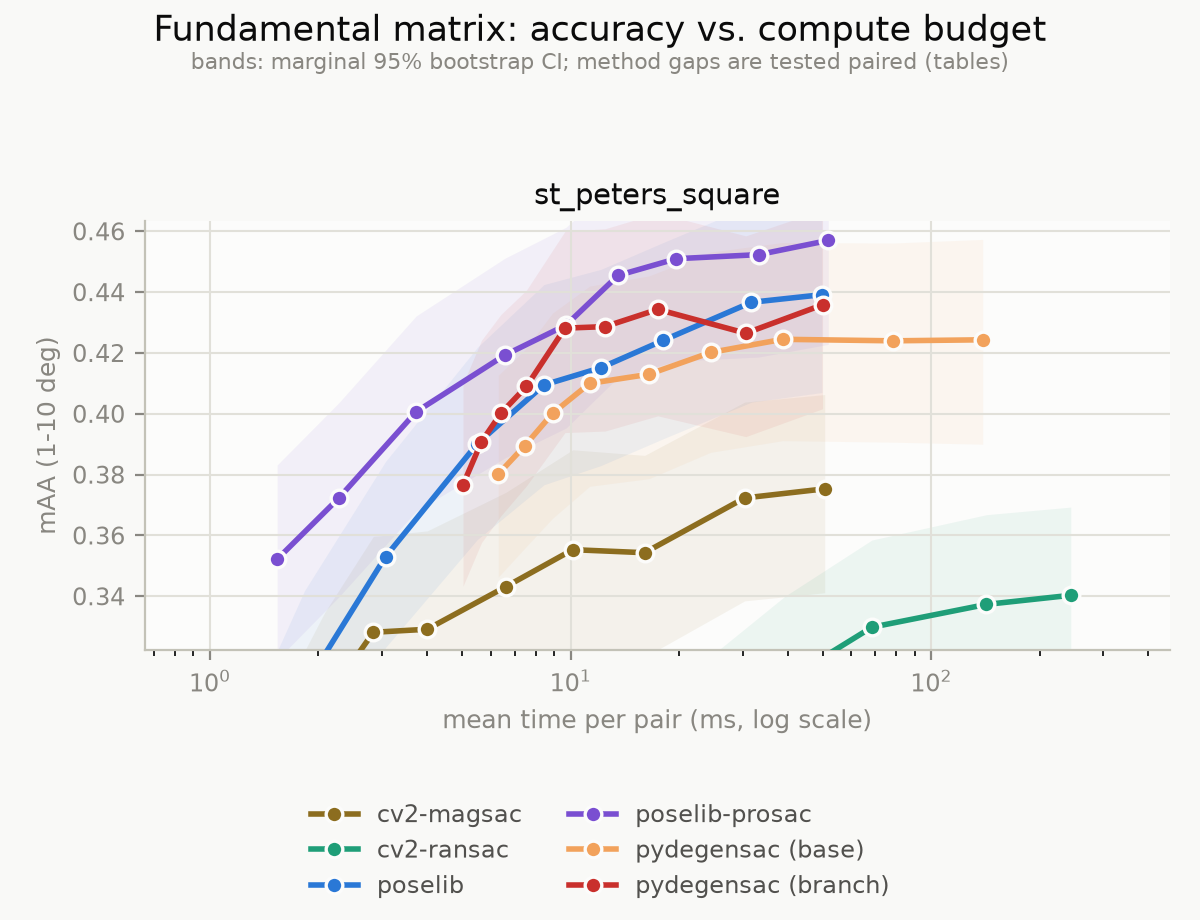
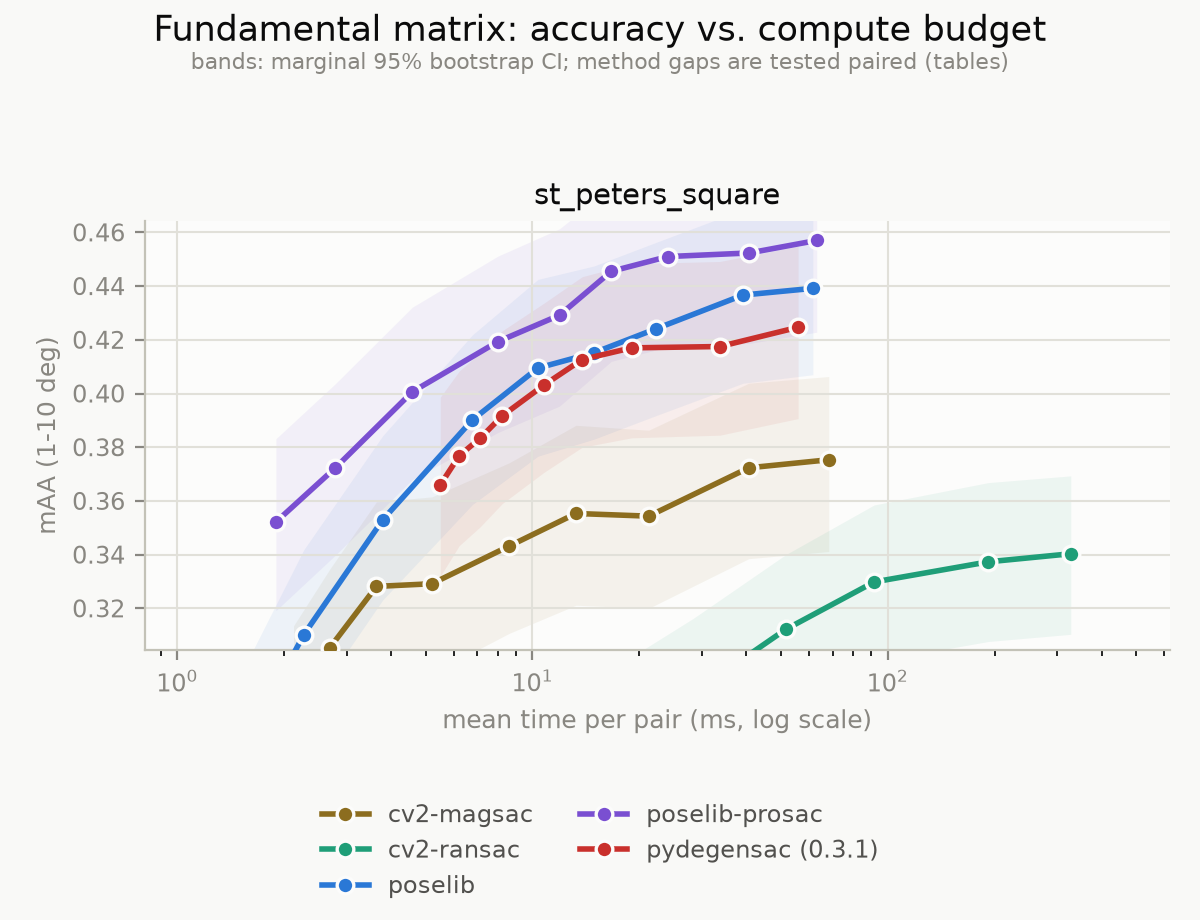
add M1 benchmarks for 0.3.1 with fixed seed

diff --git a/benchmarks/results/report_h_m1.md b/benchmarks/results/report_h_m1.md
@@ -1,59 +1,112 @@
 # Homography time-mAA
 
-- `branch:m1-opt@15445ef` — h_m1_opt.jsonl, pydegensac 0.3.0, cv2 4.13.0, poselib 2.0.5, repo aa111c8, host Dmytros-MacBook-Air.local
+- `0.3.1:1d05d10` — h_current_m1.jsonl, pydegensac 0.3.1, cv2 5.0.0, poselib 2.0.5, repo 1d05d10, host Dmytros-MacBook-Air.local
+  - pydegensac seed: `12345` (reset per call)
   - config: `{"EVD": {"cv2-ransac": {"px_th": 1.0, "ratio_th": null, "source": "run.py tune h (val)"}, "cv2-magsac": {"px_th": 4.0, "ratio_th": null, "source": "run.py tune h (val)"}, "poselib": {"px_th": 8.0, "ratio_th": null, "source": "run.py tune h (val)"}, "poselib-prosac": {"px_th": 4.0, "ratio_th": null, "source": "run.py tune h (val), after score-orientation fix"}, "pydegensac": {"px_th": 1.0, "ratio_th": null, "source": "run.py tune h (val)"}}, "HPatchesSeq": {"cv2-ransac": {"px_th": 16.0, "ratio_th": null, "source": "run.py tune h (val)"}, "cv2-magsac": {"px_th": 64.0, "ratio_th": null, "source": "run.py tune h (val)"}, "poselib": {"px_th": 16.0, "ratio_th": null, "source": "run.py tune h (val)"}, "poselib-prosac": {"px_th": 16.0, "ratio_th": null, "source": "run.py tune h (val), after score-orientation fix"}, "pydegensac": {"px_th": 4.0, "ratio_th": null, "source": "run.py tune h (val)"}}}`
-- `base:m1-master+lapackfix` — h_m1_basefix2.jsonl, pydegensac 0.3.0, cv2 4.13.0, poselib 2.0.5, repo aa111c8, host Dmytros-MacBook-Air.local
-  - config: `{"EVD": {"pydegensac": {"px_th": 1.0, "ratio_th": null, "source": "run.py tune h (val)"}}, "HPatchesSeq": {"pydegensac": {"px_th": 4.0, "ratio_th": null, "source": "run.py tune h (val)"}}}`
 
 ### EVD — best per method
 
 | method | best mAA | 95% CI | at budget | mean ms/pair | d mAA vs poselib-prosac (paired) |
 |---|---|---|---|---|---|
-| poselib-prosac | 0.4500 | 0.2000-0.6875 | 100 | 0.84 | leader |
-| poselib | 0.4375 | 0.1875-0.6875 | 25000 | 2.95 | -0.0126 (-0.0375, +0.0000) |
-| cv2-magsac | 0.4125 | 0.1750-0.6500 | 6400 | 1.05 | -0.0379 (-0.0750, -0.0125) * |
-| pydegensac (branch) | 0.4125 | 0.1750-0.6000 | 25000 | 7.79 | -0.0374 (-0.1125, +0.0375) |
-| pydegensac (base) | 0.4000 | 0.1750-0.6375 | 25000 | 31.35 | -0.0500 (-0.0875, -0.0125) * |
-| cv2-ransac | 0.3375 | 0.0994-0.6125 | 1600 | 18.76 | -0.1131 (-0.2500, +0.0000) |
+| poselib-prosac | 0.4500 | 0.2000-0.6875 | 100 | 1.02 | leader |
+| poselib | 0.4375 | 0.1875-0.6875 | 25000 | 3.48 | -0.0126 (-0.0375, +0.0000) |
+| cv2-magsac | 0.4125 | 0.1750-0.6500 | 6400 | 1.25 | -0.0379 (-0.0750, -0.0125) * |
+| pydegensac (0.3.1) | 0.4000 | 0.1875-0.6250 | 25000 | 7.39 | -0.0506 (-0.1750, +0.0625) |
+| cv2-ransac | 0.3375 | 0.0994-0.6125 | 1600 | 21.45 | -0.1131 (-0.2500, +0.0000) |
 
 `*` = paired CI excludes zero. Each method is taken at its own best budget, which flatters every method equally.
 
-#### pydegensac: base vs branch, same budget
 
-| budget | mAA base | mAA branch | d mAA (95% CI, paired) | ms base | ms branch | speedup |
+### EVD
+
+| method | budget | mAA | 95% CI | mean ms/pair | median ms/pair | failures |
 |---|---|---|---|---|---|---|
-| 10 | 0.1000 | 0.0750 | -0.0253 (-0.0750, +0.0000) | 0.35 | 0.25 | 1.39x |
-| 25 | 0.2125 | 0.1000 | -0.1135 (-0.2875, +0.0000) | 0.34 | 0.28 | 1.21x |
-| 100 | 0.2875 | 0.2125 | -0.0756 (-0.2125, +0.0250) | 0.95 | 0.52 | 1.84x |
-| 400 | 0.2875 | 0.2875 | -0.0004 (-0.0750, +0.0750) | 1.78 | 0.92 | 1.93x |
-| 1600 | 0.2875 | 0.2625 | -0.0257 (-0.0875, +0.0500) | 4.01 | 1.58 | 2.53x |
-| 6400 | 0.3625 | 0.3375 | -0.0253 (-0.0875, +0.0250) | 10.15 | 3.39 | 2.99x |
-| 25000 | 0.4000 | 0.4125 | +0.0126 (-0.0750, +0.1000) | 31.35 | 7.79 | 4.02x |
-| **all** | | | | 48.91 | 14.74 | **3.32x** |
+| cv2-magsac | 10 | 0.1625 | 0.0000-0.3625 | 0.19 | 0.17 | 0/8 |
+| cv2-magsac | 25 | 0.2750 | 0.0625-0.5375 | 0.25 | 0.24 | 0/8 |
+| cv2-magsac | 100 | 0.3750 | 0.1125-0.6375 | 0.30 | 0.26 | 0/8 |
+| cv2-magsac | 400 | 0.3625 | 0.1125-0.6125 | 0.39 | 0.34 | 0/8 |
+| cv2-magsac | 1600 | 0.3625 | 0.1125-0.6125 | 0.59 | 0.59 | 0/8 |
+| cv2-magsac | 6400 | 0.4125 | 0.1750-0.6500 | 1.25 | 1.45 | 0/8 |
+| cv2-magsac | 25000 | 0.3750 | 0.1375-0.6250 | 2.73 | 2.71 | 0/8 |
+| cv2-ransac | 10 | 0.0625 | 0.0000-0.1625 | 0.35 | 0.32 | 0/8 |
+| cv2-ransac | 25 | 0.1125 | 0.0000-0.2503 | 0.55 | 0.56 | 0/8 |
+| cv2-ransac | 100 | 0.1625 | 0.0125-0.3500 | 1.62 | 1.63 | 0/8 |
+| cv2-ransac | 400 | 0.2500 | 0.0375-0.4875 | 5.64 | 5.53 | 0/8 |
+| cv2-ransac | 1600 | 0.3375 | 0.0994-0.6125 | 21.45 | 21.44 | 0/8 |
+| cv2-ransac | 6400 | 0.3375 | 0.0994-0.6125 | 74.72 | 84.98 | 1/8 |
+| cv2-ransac | 25000 | 0.3250 | 0.0750-0.6000 | 261.29 | 328.51 | 1/8 |
+| poselib | 10 | 0.1125 | 0.0000-0.3375 | 0.16 | 0.10 | 1/8 |
+| poselib | 25 | 0.2000 | 0.0250-0.4250 | 0.32 | 0.20 | 0/8 |
+| poselib | 100 | 0.4125 | 0.1625-0.6750 | 0.61 | 0.59 | 0/8 |
+| poselib | 400 | 0.4125 | 0.1625-0.6750 | 0.75 | 0.75 | 0/8 |
+| poselib | 1600 | 0.4125 | 0.1625-0.6750 | 1.12 | 1.28 | 0/8 |
+| poselib | 6400 | 0.4000 | 0.1625-0.6500 | 1.76 | 1.99 | 0/8 |
+| poselib | 25000 | 0.4375 | 0.1875-0.6875 | 3.48 | 3.50 | 0/8 |
+| poselib-prosac | 10 | 0.3750 | 0.1125-0.6375 | 0.66 | 0.66 | 1/8 |
+| poselib-prosac | 25 | 0.3875 | 0.1125-0.6500 | 0.88 | 0.93 | 0/8 |
+| poselib-prosac | 100 | 0.4500 | 0.2000-0.6875 | 1.02 | 1.02 | 0/8 |
+| poselib-prosac | 400 | 0.4500 | 0.2000-0.6875 | 1.27 | 1.30 | 0/8 |
+| poselib-prosac | 1600 | 0.4500 | 0.2000-0.6875 | 1.71 | 1.75 | 0/8 |
+| poselib-prosac | 6400 | 0.4500 | 0.2000-0.6875 | 2.61 | 2.80 | 0/8 |
+| poselib-prosac | 25000 | 0.4500 | 0.2000-0.6875 | 5.44 | 5.59 | 0/8 |
+| pydegensac (0.3.1) | 10 | 0.2125 | 0.0000-0.5125 | 0.43 | 0.47 | 4/8 |
+| pydegensac (0.3.1) | 25 | 0.2625 | 0.0625-0.5000 | 0.42 | 0.26 | 2/8 |
+| pydegensac (0.3.1) | 100 | 0.2750 | 0.0750-0.5253 | 0.58 | 0.47 | 0/8 |
+| pydegensac (0.3.1) | 400 | 0.2500 | 0.0500-0.5000 | 1.16 | 0.66 | 0/8 |
+| pydegensac (0.3.1) | 1600 | 0.3250 | 0.1000-0.5625 | 1.63 | 1.14 | 0/8 |
+| pydegensac (0.3.1) | 6400 | 0.3875 | 0.1747-0.6128 | 3.21 | 2.64 | 0/8 |
+| pydegensac (0.3.1) | 25000 | 0.4000 | 0.1875-0.6250 | 7.39 | 7.61 | 0/8 |
 
 ### HPatchesSeq — best per method
 
 | method | best mAA | 95% CI | at budget | mean ms/pair | d mAA vs poselib-prosac (paired) |
 |---|---|---|---|---|---|
-| poselib-prosac | 0.9297 | 0.8903-0.9628 | 1600 | 7.97 | leader |
-| cv2-magsac | 0.9269 | 0.8896-0.9586 | 25000 | 0.96 | -0.0027 (-0.0124, +0.0076) |
-| poselib | 0.9262 | 0.8876-0.9593 | 25000 | 5.22 | -0.0034 (-0.0214, +0.0097) |
-| pydegensac (branch) | 0.9200 | 0.8814-0.9538 | 25000 | 2.56 | -0.0095 (-0.0152, -0.0041) * |
-| cv2-ransac | 0.9103 | 0.8710-0.9448 | 25000 | 28.24 | -0.0192 (-0.0297, -0.0090) * |
-| pydegensac (base) | 0.9041 | 0.8621-0.9393 | 1600 | 4.39 | -0.0253 (-0.0434, -0.0117) * |
+| poselib-prosac | 0.9297 | 0.8903-0.9628 | 1600 | 9.41 | leader |
+| cv2-magsac | 0.9269 | 0.8896-0.9586 | 25000 | 1.21 | -0.0027 (-0.0124, +0.0076) |
+| poselib | 0.9262 | 0.8876-0.9593 | 25000 | 6.52 | -0.0034 (-0.0214, +0.0097) |
+| cv2-ransac | 0.9103 | 0.8710-0.9448 | 25000 | 33.94 | -0.0192 (-0.0297, -0.0090) * |
+| pydegensac (0.3.1) | 0.9048 | 0.8641-0.9407 | 6400 | 2.08 | -0.0247 (-0.0421, -0.0117) * |
 
 `*` = paired CI excludes zero. Each method is taken at its own best budget, which flatters every method equally.
 
-#### pydegensac: base vs branch, same budget
 
-| budget | mAA base | mAA branch | d mAA (95% CI, paired) | ms base | ms branch | speedup |
+### HPatchesSeq
+
+| method | budget | mAA | 95% CI | mean ms/pair | median ms/pair | failures |
 |---|---|---|---|---|---|---|
-| 10 | 0.7048 | 0.7228 | +0.0179 (-0.0524, +0.0848) | 2.79 | 0.98 | 2.85x |
-| 25 | 0.7641 | 0.7938 | +0.0304 (-0.0159, +0.0779) | 2.94 | 1.08 | 2.73x |
-| 100 | 0.8531 | 0.8366 | -0.0167 (-0.0579, +0.0235) | 3.32 | 1.21 | 2.74x |
-| 400 | 0.8862 | 0.8945 | +0.0079 (-0.0110, +0.0269) | 3.78 | 1.43 | 2.63x |
-| 1600 | 0.9041 | 0.9069 | +0.0025 (-0.0145, +0.0172) | 4.39 | 1.57 | 2.79x |
-| 6400 | 0.9028 | 0.9131 | +0.0103 (+0.0007, +0.0214) * | 5.69 | 1.94 | 2.93x |
-| 25000 | 0.9028 | 0.9200 | +0.0171 (+0.0028, +0.0359) * | 8.43 | 2.56 | 3.30x |
-| **all** | | | | 31.33 | 10.78 | **2.91x** |
+| cv2-magsac | 10 | 0.7207 | 0.6448-0.7910 | 0.70 | 0.69 | 13/145 |
+| cv2-magsac | 25 | 0.8048 | 0.7379-0.8642 | 0.76 | 0.76 | 4/145 |
+| cv2-magsac | 100 | 0.8572 | 0.7993-0.9090 | 0.84 | 0.81 | 0/145 |
+| cv2-magsac | 400 | 0.8834 | 0.8297-0.9290 | 0.92 | 0.83 | 0/145 |
+| cv2-magsac | 1600 | 0.9117 | 0.8683-0.9504 | 0.93 | 0.83 | 0/145 |
+| cv2-magsac | 6400 | 0.9200 | 0.8800-0.9531 | 1.01 | 0.89 | 0/145 |
+| cv2-magsac | 25000 | 0.9269 | 0.8896-0.9586 | 1.21 | 0.91 | 0/145 |
+| cv2-ransac | 10 | 0.7338 | 0.6621-0.8014 | 1.06 | 1.04 | 0/145 |
+| cv2-ransac | 25 | 0.7890 | 0.7227-0.8497 | 1.28 | 1.21 | 0/145 |
+| cv2-ransac | 100 | 0.8503 | 0.7931-0.9028 | 1.69 | 1.65 | 0/145 |
+| cv2-ransac | 400 | 0.8834 | 0.8338-0.9255 | 2.89 | 1.80 | 0/145 |
+| cv2-ransac | 1600 | 0.8897 | 0.8427-0.9304 | 5.74 | 1.80 | 0/145 |
+| cv2-ransac | 6400 | 0.9069 | 0.8669-0.9421 | 14.64 | 1.86 | 0/145 |
+| cv2-ransac | 25000 | 0.9103 | 0.8710-0.9448 | 33.94 | 1.88 | 0/145 |
+| poselib | 10 | 0.7366 | 0.6607-0.8069 | 1.17 | 1.07 | 3/145 |
+| poselib | 25 | 0.7952 | 0.7262-0.8538 | 1.48 | 1.21 | 0/145 |
+| poselib | 100 | 0.8407 | 0.7800-0.8959 | 2.13 | 1.80 | 0/145 |
+| poselib | 400 | 0.8959 | 0.8462-0.9379 | 3.45 | 3.09 | 0/145 |
+| poselib | 1600 | 0.9159 | 0.8738-0.9538 | 5.60 | 4.87 | 0/145 |
+| poselib | 6400 | 0.9221 | 0.8821-0.9579 | 5.83 | 4.98 | 0/145 |
+| poselib | 25000 | 0.9262 | 0.8876-0.9593 | 6.52 | 5.71 | 0/145 |
+| poselib-prosac | 10 | 0.8966 | 0.8469-0.9407 | 1.76 | 1.63 | 4/145 |
+| poselib-prosac | 25 | 0.9034 | 0.8566-0.9462 | 2.15 | 1.99 | 0/145 |
+| poselib-prosac | 100 | 0.9166 | 0.8738-0.9545 | 3.30 | 3.19 | 0/145 |
+| poselib-prosac | 400 | 0.9228 | 0.8807-0.9586 | 5.74 | 5.66 | 0/145 |
+| poselib-prosac | 1600 | 0.9297 | 0.8903-0.9628 | 9.41 | 9.57 | 0/145 |
+| poselib-prosac | 6400 | 0.9297 | 0.8903-0.9628 | 9.72 | 9.47 | 0/145 |
+| poselib-prosac | 25000 | 0.9297 | 0.8903-0.9628 | 10.40 | 9.85 | 0/145 |
+| pydegensac (0.3.1) | 10 | 0.7152 | 0.6421-0.7814 | 1.29 | 1.20 | 20/145 |
+| pydegensac (0.3.1) | 25 | 0.7869 | 0.7221-0.8483 | 1.17 | 1.20 | 3/145 |
+| pydegensac (0.3.1) | 100 | 0.8359 | 0.7793-0.8897 | 1.32 | 1.41 | 0/145 |
+| pydegensac (0.3.1) | 400 | 0.8579 | 0.8062-0.9048 | 1.49 | 1.49 | 0/145 |
+| pydegensac (0.3.1) | 1600 | 0.8993 | 0.8572-0.9372 | 1.70 | 1.61 | 0/145 |
+| pydegensac (0.3.1) | 6400 | 0.9048 | 0.8641-0.9407 | 2.08 | 1.64 | 0/145 |
+| pydegensac (0.3.1) | 25000 | 0.9048 | 0.8641-0.9407 | 2.58 | 1.69 | 0/145 |
 wrote results/time_maa_h_m1.png

diff --git a/benchmarks/results/report_f_m1.md b/benchmarks/results/report_f_m1.md
@@ -1,35 +1,69 @@
 # Fundamental time-mAA
 
-- `branch:m1-opt@15445ef` — f_m1_opt.jsonl, pydegensac 0.3.0, cv2 4.13.0, poselib 2.0.5, repo 15445ef, host Dmytros-MacBook-Air.local
+- `0.3.1:1d05d10` — f_current_m1.jsonl, pydegensac 0.3.1, cv2 5.0.0, poselib 2.0.5, repo 1d05d10, host Dmytros-MacBook-Air.local
+  - pydegensac seed: `12345` (reset per call)
   - config: `{"st_peters_square": {"cv2-ransac": {"px_th": 0.5, "ratio_th": 0.85, "source": "run.py tune f (300-pair tuning subset)"}, "cv2-magsac": {"px_th": 0.25, "ratio_th": 0.85, "source": "run.py tune f (300-pair tuning subset)"}, "poselib": {"px_th": 0.5, "ratio_th": 0.85, "source": "run.py tune f (300-pair tuning subset)"}, "poselib-prosac": {"px_th": 0.5, "ratio_th": 0.85, "source": "run.py tune f; ratio 0.85 not 0.90 (tie-break, see below)"}, "pydegensac": {"px_th": 0.5, "ratio_th": 0.8, "source": "run.py tune f (300-pair tuning subset)"}}}`
-- `base:m1-master+lapackfix` — f_m1_basefix2.jsonl, pydegensac 0.3.0, cv2 4.13.0, poselib 2.0.5, repo aa111c8, host Dmytros-MacBook-Air.local
-  - config: `{"st_peters_square": {"pydegensac": {"px_th": 0.5, "ratio_th": 0.8, "source": "run.py tune f (300-pair tuning subset)"}}}`
 
 ### st_peters_square — best per method
 
 | method | best mAA | 95% CI | at budget | mean ms/pair | d mAA vs poselib-prosac (paired) |
 |---|---|---|---|---|---|
-| poselib-prosac | 0.4570 | 0.4228-0.4873 | 50000 | 51.81 | leader |
-| poselib | 0.4392 | 0.4070-0.4698 | 50000 | 49.75 | -0.0178 (-0.0413, +0.0060) |
-| pydegensac (branch) | 0.4358 | 0.4017-0.4670 | 50000 | 49.96 | -0.0211 (-0.0442, +0.0018) |
-| pydegensac (base) | 0.4245 | 0.3912-0.4563 | 10000 | 38.75 | -0.0325 (-0.0548, -0.0093) * |
-| cv2-magsac | 0.3753 | 0.3412-0.4063 | 50000 | 50.65 | -0.0820 (-0.1098, -0.0562) * |
-| cv2-ransac | 0.3403 | 0.3103-0.3693 | 50000 | 243.66 | -0.1165 (-0.1425, -0.0898) * |
+| poselib-prosac | 0.4570 | 0.4228-0.4873 | 50000 | 63.13 | leader |
+| poselib | 0.4392 | 0.4070-0.4698 | 50000 | 61.58 | -0.0178 (-0.0413, +0.0060) |
+| pydegensac (0.3.1) | 0.4247 | 0.3907-0.4548 | 50000 | 55.96 | -0.0325 (-0.0547, -0.0095) * |
+| cv2-magsac | 0.3753 | 0.3412-0.4063 | 50000 | 68.26 | -0.0820 (-0.1098, -0.0562) * |
+| cv2-ransac | 0.3403 | 0.3103-0.3693 | 50000 | 327.66 | -0.1165 (-0.1425, -0.0898) * |
 
 `*` = paired CI excludes zero. Each method is taken at its own best budget, which flatters every method equally.
 
-#### pydegensac: base vs branch, same budget
 
-| budget | mAA base | mAA branch | d mAA (95% CI, paired) | ms base | ms branch | speedup |
+### st_peters_square
+
+| method | budget | mAA | 95% CI | mean ms/pair | median ms/pair | failures |
 |---|---|---|---|---|---|---|
-| 125 | 0.3802 | 0.3767 | -0.0032 (-0.0243, +0.0175) | 6.30 | 5.03 | 1.25x |
-| 250 | 0.3895 | 0.3908 | +0.0019 (-0.0193, +0.0220) | 7.47 | 5.66 | 1.32x |
-| 500 | 0.4002 | 0.4002 | +0.0003 (-0.0213, +0.0203) | 8.92 | 6.41 | 1.39x |
-| 1000 | 0.4100 | 0.4090 | -0.0004 (-0.0218, +0.0205) | 11.30 | 7.54 | 1.50x |
-| 2500 | 0.4130 | 0.4282 | +0.0155 (-0.0052, +0.0355) | 16.49 | 9.65 | 1.71x |
-| 5000 | 0.4202 | 0.4287 | +0.0088 (-0.0103, +0.0285) | 24.43 | 12.46 | 1.96x |
-| 10000 | 0.4245 | 0.4343 | +0.0099 (-0.0090, +0.0292) | 38.75 | 17.45 | 2.22x |
-| 25000 | 0.4240 | 0.4265 | +0.0025 (-0.0163, +0.0218) | 78.29 | 30.60 | 2.56x |
-| 50000 | 0.4243 | 0.4358 | +0.0115 (-0.0070, +0.0310) | 138.89 | 49.96 | 2.78x |
-| **all** | | | | 330.83 | 144.77 | **2.29x** |
+| cv2-magsac | 125 | 0.2850 | 0.2542-0.3135 | 2.12 | 1.53 | 3/600 |
+| cv2-magsac | 250 | 0.3053 | 0.2733-0.3347 | 2.69 | 1.88 | 6/600 |
+| cv2-magsac | 500 | 0.3282 | 0.2955-0.3597 | 3.64 | 2.65 | 2/600 |
+| cv2-magsac | 1000 | 0.3292 | 0.2957-0.3615 | 5.21 | 3.92 | 5/600 |
+| cv2-magsac | 2500 | 0.3432 | 0.3107-0.3742 | 8.59 | 7.12 | 4/600 |
+| cv2-magsac | 5000 | 0.3553 | 0.3212-0.3882 | 13.26 | 11.72 | 5/600 |
+| cv2-magsac | 10000 | 0.3543 | 0.3200-0.3863 | 21.24 | 20.86 | 2/600 |
+| cv2-magsac | 25000 | 0.3723 | 0.3385-0.4038 | 40.63 | 46.96 | 4/600 |
+| cv2-magsac | 50000 | 0.3753 | 0.3412-0.4063 | 68.26 | 90.57 | 1/600 |
+| cv2-ransac | 125 | 0.1595 | 0.1360-0.1808 | 1.72 | 1.65 | 0/600 |
+| cv2-ransac | 250 | 0.1902 | 0.1668-0.2157 | 3.31 | 3.21 | 0/600 |
+| cv2-ransac | 500 | 0.2218 | 0.1953-0.2472 | 6.49 | 6.32 | 0/600 |
+| cv2-ransac | 1000 | 0.2600 | 0.2325-0.2867 | 12.44 | 12.47 | 0/600 |
+| cv2-ransac | 2500 | 0.2885 | 0.2595-0.3163 | 28.41 | 30.26 | 0/600 |
+| cv2-ransac | 5000 | 0.3122 | 0.2823-0.3400 | 51.64 | 59.06 | 0/600 |
+| cv2-ransac | 10000 | 0.3298 | 0.3002-0.3585 | 91.63 | 115.46 | 0/600 |
+| cv2-ransac | 25000 | 0.3373 | 0.3077-0.3668 | 192.08 | 268.58 | 0/600 |
+| cv2-ransac | 50000 | 0.3403 | 0.3103-0.3693 | 327.66 | 286.17 | 0/600 |
+| poselib | 125 | 0.2685 | 0.2398-0.2977 | 1.54 | 0.99 | 0/600 |
+| poselib | 250 | 0.3102 | 0.2803-0.3418 | 2.27 | 1.52 | 0/600 |
+| poselib | 500 | 0.3530 | 0.3232-0.3843 | 3.79 | 2.57 | 0/600 |
+| poselib | 1000 | 0.3902 | 0.3587-0.4218 | 6.77 | 4.75 | 0/600 |
+| poselib | 2500 | 0.4095 | 0.3767-0.4425 | 10.36 | 9.10 | 0/600 |
+| poselib | 5000 | 0.4152 | 0.3830-0.4475 | 14.90 | 14.40 | 0/600 |
+| poselib | 10000 | 0.4242 | 0.3918-0.4563 | 22.33 | 24.36 | 0/600 |
+| poselib | 25000 | 0.4367 | 0.4038-0.4685 | 39.15 | 26.99 | 0/600 |
+| poselib | 50000 | 0.4392 | 0.4070-0.4698 | 61.58 | 27.74 | 0/600 |
+| poselib-prosac | 125 | 0.3522 | 0.3192-0.3832 | 1.90 | 1.24 | 0/600 |
+| poselib-prosac | 250 | 0.3723 | 0.3398-0.4037 | 2.79 | 1.89 | 0/600 |
+| poselib-prosac | 500 | 0.4007 | 0.3680-0.4322 | 4.59 | 3.12 | 0/600 |
+| poselib-prosac | 1000 | 0.4193 | 0.3855-0.4512 | 7.99 | 5.52 | 0/600 |
+| poselib-prosac | 2500 | 0.4292 | 0.3953-0.4613 | 11.92 | 10.27 | 0/600 |
+| poselib-prosac | 5000 | 0.4455 | 0.4120-0.4767 | 16.67 | 15.31 | 0/600 |
+| poselib-prosac | 10000 | 0.4510 | 0.4173-0.4823 | 24.04 | 25.33 | 0/600 |
+| poselib-prosac | 25000 | 0.4523 | 0.4187-0.4830 | 40.76 | 30.47 | 0/600 |
+| poselib-prosac | 50000 | 0.4570 | 0.4228-0.4873 | 63.13 | 30.53 | 0/600 |
+| pydegensac (0.3.1) | 125 | 0.3660 | 0.3320-0.3987 | 5.50 | 4.73 | 0/600 |
+| pydegensac (0.3.1) | 250 | 0.3768 | 0.3433-0.4083 | 6.22 | 5.41 | 0/600 |
+| pydegensac (0.3.1) | 500 | 0.3833 | 0.3503-0.4152 | 7.12 | 6.33 | 0/600 |
+| pydegensac (0.3.1) | 1000 | 0.3917 | 0.3590-0.4233 | 8.22 | 7.17 | 0/600 |
+| pydegensac (0.3.1) | 2500 | 0.4032 | 0.3707-0.4337 | 10.78 | 9.39 | 0/600 |
+| pydegensac (0.3.1) | 5000 | 0.4127 | 0.3800-0.4435 | 13.81 | 12.05 | 0/600 |
+| pydegensac (0.3.1) | 10000 | 0.4170 | 0.3835-0.4483 | 19.01 | 16.43 | 0/600 |
+| pydegensac (0.3.1) | 25000 | 0.4175 | 0.3845-0.4492 | 33.69 | 28.85 | 0/600 |
+| pydegensac (0.3.1) | 50000 | 0.4247 | 0.3907-0.4548 | 55.96 | 47.93 | 0/600 |
 wrote results/time_maa_f_m1.png

diff --git a/README.md b/README.md
@@ -57,32 +57,34 @@ and homography on EVD (8 test pairs) and HPatchesSeq (145 test pairs), using
 reprojection mAA 1–20 px. Thresholds are retained from the previous tuning,
 which used OpenCV 4.13; they have not been retuned for OpenCV 5.0.
 
-**Linux x86-64** — Intel Core i7-14700K, WSL2, single-threaded estimator calls.
-pydegensac uses **seed 12345**, reset for every pair and iteration budget;
-OpenCV and PoseLib retain their estimator defaults. These are single-seed
-measurements: confidence intervals resample image pairs, not seeds, repeated
-runs, or timing noise.
+<table>
+<tr><th width="50%">Linux x86-64</th><th width="50%">Apple M1</th></tr>
+<tr>
+<td><img alt="F time-mAA, Linux" src="benchmarks/results/time_maa_f_linux.png"></td>
+<td><img alt="F time-mAA, Apple M1" src="benchmarks/results/time_maa_f_m1.png"></td>
+</tr>
+<tr>
+<td><img alt="H time-mAA, Linux" src="benchmarks/results/time_maa_h_linux.png"></td>
+<td><img alt="H time-mAA, Apple M1" src="benchmarks/results/time_maa_h_m1.png"></td>
+</tr>
+</table>
 
-![Fundamental matrix time versus mAA, Linux, pydegensac 0.3.1](benchmarks/results/time_maa_f_linux.png)
-![Homography time versus mAA, Linux, pydegensac 0.3.1](benchmarks/results/time_maa_h_linux.png)
+These are single-threaded estimator calls (Linux: Intel Core i7-14700K WSL2; Apple M1: MacBook Air). pydegensac uses **seed 12345**, reset for every pair and iteration budget; OpenCV and PoseLib retain their estimator defaults. These are single-seed measurements: confidence intervals resample image pairs, not seeds, repeated runs, or timing noise.
 
-**Fundamental matrix.** At each method's best budget, pydegensac reaches
-0.423 mAA at 51.2 ms/pair, compared with PoseLib PROSAC's 0.457 at 40.3 ms.
-The paired gap is -0.034 mAA (95% CI -0.055 to -0.012), so this run separates
-them on accuracy. OpenCV MAGSAC reaches 0.376 mAA at 29.9 ms; OpenCV RANSAC
-reaches 0.340 at 183.7 ms.
+**Fundamental matrix.** At each method's best budget:
+- On **Linux**, pydegensac reaches 0.423 mAA at 51.2 ms/pair, compared with PoseLib PROSAC's 0.457 at 40.3 ms (paired gap -0.034 mAA, 95% CI -0.055 to -0.012). OpenCV MAGSAC reaches 0.376 at 29.9 ms; OpenCV RANSAC reaches 0.340 at 183.7 ms.
+- On **Apple M1**, pydegensac reaches 0.425 mAA at 56.0 ms/pair, compared with PoseLib PROSAC's 0.457 at 63.1 ms (paired gap -0.033 mAA, 95% CI -0.055 to -0.010). OpenCV MAGSAC reaches 0.375 at 68.3 ms; OpenCV RANSAC reaches 0.340 at 327.7 ms.
 
-**Homography.** On HPatchesSeq, pydegensac reaches 0.9048 mAA at 2.25 ms/pair
-(6,400 iterations). OpenCV MAGSAC reaches 0.9269 at 0.88 ms, while PoseLib
-PROSAC reaches 0.9297 at 7.79 ms. The paired pydegensac gap to PoseLib PROSAC
-is -0.025 mAA (95% CI -0.042 to -0.012). EVD has only 8 test pairs and much
-wider intervals; it does not separate pydegensac from the leader in this run.
+**Homography.** On HPatchesSeq, at each method's best budget:
+- On **Linux**, pydegensac reaches 0.9048 mAA at 2.25 ms/pair (6,400 iterations). OpenCV MAGSAC reaches 0.9269 at 0.88 ms, while PoseLib PROSAC reaches 0.9297 at 7.79 ms (paired pydegensac gap -0.025 mAA, 95% CI -0.042 to -0.012).
+- On **Apple M1**, pydegensac reaches 0.9048 mAA at 2.08 ms/pair (6,400 iterations). OpenCV MAGSAC reaches 0.9269 at 1.21 ms, while PoseLib PROSAC reaches 0.9297 at 9.41 ms (paired pydegensac gap -0.025 mAA, 95% CI -0.042 to -0.012).
 
-The Apple M1 rerun for 0.3.1 and OpenCV 5.0 is pending; the older M1 measurements
-are retained in the historical reports rather than mixed into this comparison.
+On both platforms, EVD has only 8 test pairs and much wider intervals; it does not separate pydegensac from the leader in either run.
 
-Full results: [fundamental matrix](benchmarks/results/report_f_linux.md) and
-[homography](benchmarks/results/report_h_linux.md).
+Full results:
+- Linux: [fundamental matrix](benchmarks/results/report_f_linux.md) and [homography](benchmarks/results/report_h_linux.md)
+- Apple M1: [fundamental matrix](benchmarks/results/report_f_m1.md) and [homography](benchmarks/results/report_h_m1.md)
+
 See [benchmark instructions](benchmarks/README.md) for dependencies and the
 protocol, and the [earlier study](docs/reports/2026-08-11-ransac-benchmark.md)
 for historical results and threshold-transfer caveats.
